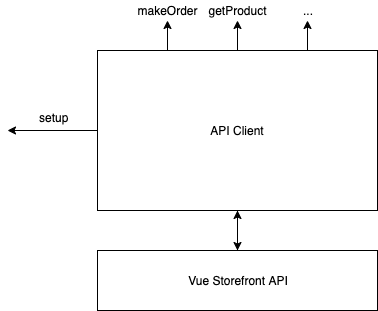
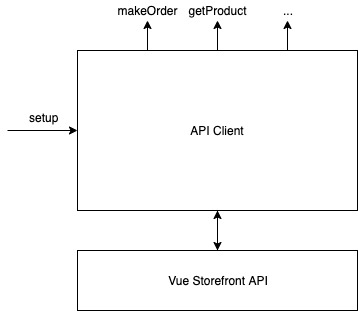
axios examples

diff --git a/rfc/api-client.md b/rfc/api-client.md
@@ -2,11 +2,12 @@
 
 Vue Storefront API client is a client-side micro-application built to consume Vue Storefront API. It provides a friendly abstraction layer over network calls and their params to make them easier to consume by other applications. It gets the data from Vue Storefront API and relies on this layer (or something in exchange of it) to work. **It's a standalone package that can be used in any JavaScript project.**.
 
-You can think about API client as enhanced data resolever from 1.x. 
+You can think about API client as enhanced data resolever from 1.x. API Client will be consumed by VS modules.
 
-API client is complementary layer of Vue Storefront API. It shouldn't be used to add new API endpoints. Instead we suggest creating dedicated modules for new features.
+**API client is just a complementary layer of Vue Storefront API. It shouldn't be used to add new API endpoints. Instead we suggest creating dedicated modules for new features.**
 
-API client should be just a **treeshakeable** set of typed astync functions returning certain data formats.
+API client should be just **axios** application. It can use either GQL API and REST API.
+
 
 ## Features
 
@@ -19,27 +20,51 @@ API client is very simple and focuses only on resolving data from the API and re
 - **gets** data from Vue Storefront API
 
 **Output**
-- **exposes** functions for data resolution (like `getProduct`, `makeorder` etc)
-- **exposes** `setup` function to setup endpoints
+- **exposes** functions for data resolution (like `getProduct`, `makeOrder` etc)
+- **exposes** `setup()` function where you can set basic axios properties and modify endpoints.
 
+## API
 
-## Example of usage
-- settng configuration
+### Initialization with `setup()`
+
+With this method we can setup global configuration for every request. You can pass every `axios.create()` ([ref](https://github.com/axios/axios#axioscreateconfig)) option here.
+
+API Client ships with default configuration that can be overwritten by the user (so usually the only thing you add is `baseURL`)
+
+There is also `resolvers` object letting users modify every axios request to VS API. Every resolver is in a form of [axios request](https://github.com/axios/axios#request-config).
+
+**Examples**
+
+Setting up application just with `baseURL`
 ```js
-import { setup } from '@vue-storefront/api-client`
-
-
 setup({
-  api: 'https://demo.vuestorefront.io/api`
+  baseURL: 'https://some-domain.com/api/'
 })
 ```
-- making an order
+Setting up advanced configuration and overriding `get
+
 ```js
-import { makeOrder } from '@vue-storefront/api-client`
-
-
-async placeOrder (order) {
-  await status = makeOrder(order)
-}
+setup({
+  baseURL: 'https://some-domain.com/api/',
+  timeout: 1000,
+  headers: {'X-Custom-Header': 'foobar'},
+  resolvers: {
+    getProduct: {
+      method: 'post',
+      url: '/user/12345',
+      data: {
+        firstName: 'Fred',
+        lastName: 'Flintstone'
+      },
+      transformRequest: [function (data, headers) {
+        return data;
+      }],
+      transformResponse: [function (data) {
+        return data;
+      }]
+    }
+  }
+})
 ```
 
+### Getting data

diff --git a/README.md b/README.md
@@ -23,11 +23,12 @@ Vue Storefront Next should be buuilt the way that will ensure dealing with follo
 
 Before every architectural decision we should make sure that it's making it easier for us to achieve all of those goals.
 
-Vue Storefront 2.x should be a **framework** with theme working as out of the box shop with basic configuration. It will be supported by dedicated modules for third-party integrations.
+Vue Storefront 2.x should be a **framework** (so we provide building **blocks**) with theme working as out of the box implementation with basic configuration. It will be extended by dedicated modules for third-party integrations.
 
 ## High-level rules for project architecture
 
 We defined set of high-level architectural rules that are meant to fulfill above requirements. Their main purpose is to make sure that project is easy to maintain, extend and every decision is reversable.
+
 
 - Project should have decoupled, and layered architecture to ensure that every of it's parts is encapsulated and communicates with outside world only via strictly declaired public API. Implementation details of given module shouldn't influence those APIs.
 - Every potentially repalceable third party integration API used in core building blocks (api client, core) should be abstracted so we can easily swap it with other solution solving the same problem. Modules and 3rd parties shouldn't be directly used. instead we should use dependency injection with standarized interfaces to make sure that implementation details of any module is not influencing other ones.
@@ -36,7 +37,6 @@ We defined set of high-level architectural rules that are meant to fulfill above
 - We group code by **features** not file/entity types so it's easier to add/remove/edit certain capabilities of Vue Storefront.
 
 ## High-level architecture
-
 
 Project should be devided into standalone parts with certain responsibilities. In fact architecture may look very similar to Vue Storefront 1.x but certain parts responsibilities are much different now.
 
@@ -86,3 +86,9 @@ While building Vue Storefront 2 we need to face many challenges known from previ
 - [Definition of done]()
 - [Testing]()
 - [Documentation]()
+
+## Ideas
+
+### Unified data formats for CMS/eCommerce
+
+Right now to make best use of the new platform we need to make dedicated integration which implies special theme for every new platform. It's obviously not the bests cenario as we need to provide new theme for every major platform which leads to code duplication and harder maintenance. Ideally we could agree on some common data formats for most common parts of the UI and return them from Hooks. That way it's much easier to maintain multiple integrations.
